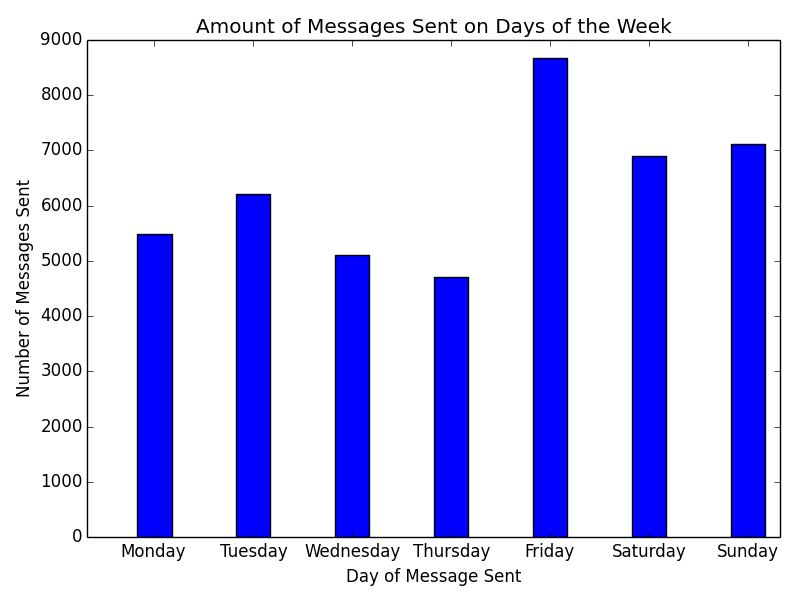
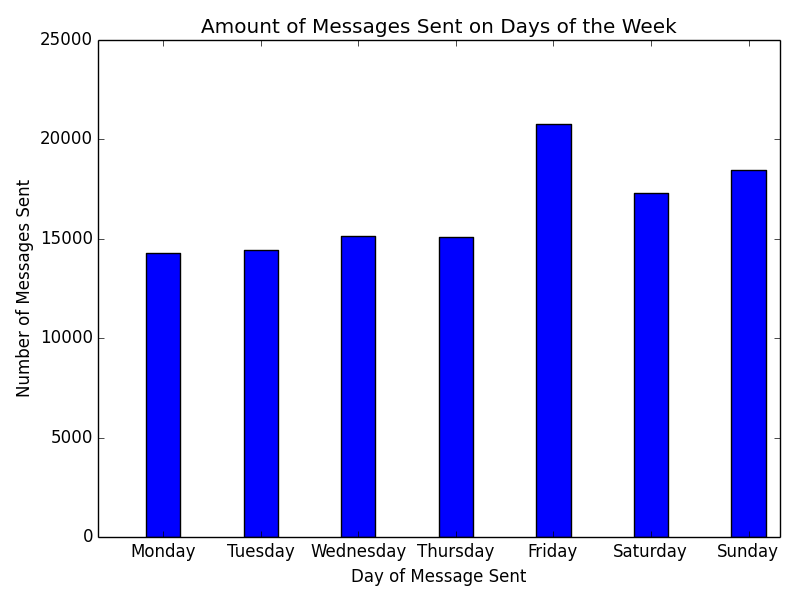
Fixed bugs caused by cleanup and before cleanup, updated images with larger data.

diff --git a/fb_analyse.py b/fb_analyse.py
@@ -48,15 +48,10 @@ for i in range(len(time_names)):
 
 ### Setup and Activate Parser/Data Gatherer ###
 
-# Parse Data while adding to data arrays.
+# Parse Data while adding to data arrays with regex.
 class MessagesParser(HTMLParser):
 	def handle_data(self, data):
-		match = re.search(
-			"""(Saturday|Sunday|Monday|Tuesday|
-				Wednesday|Thursday|Friday)(,) [0-9]{2} 
-				(Janurary|Feburary|March|April|May|June|July|Augest|
-				September|October|November|December) 
-				[0-9]{4} at [0-9]{2}:[0-9]{2}", data) """
+		match = re.search("(Saturday|Sunday|Monday|Tuesday|Wednesday|Thursday|Friday)(,) [0-9]{2} (January|February|March|April|May|June|July|August|September|October|November|December) [0-9]{4} at [0-9]{2}:[0-9]{2}", data)
 		if match:
 			for i in range(12):
 				if re.search(month_names[i], match.group(0)):
@@ -79,36 +74,41 @@ for i in range(len(messages)):
 ### Create Graphs ###
 
 # Bar Graph creater function.
-def messages(
-		n_groups, bar_width, x_lim, items, names, 
+def messages(n_groups, bar_width, x_lim, items, names, 
 		x_label, y_label, title, file_name):
+
+	# Plot Graph.
 	fig, ax = pyplot.subplots()
 	index = numpy.arange(n_groups)
 	rects1 = pyplot.bar(index, items, bar_width)
+
+	
+	# Add texts and lables.
 	pyplot.xlabel(x_label)
 	pyplot.ylabel(y_label)
 	pyplot.title(title)
+
+	# Shape Graph.
 	pyplot.xticks(index + bar_width/2, names)
 	pyplot.xlim([min(index) - x_lim, max(index) + x_lim])
-	pyplot.legend()
 	pyplot.tight_layout()
+
+	# Export Graph.
 	pyplot.savefig(file_name)
 
 
 # Create Bar Graph for messenger month frequency.
-messages(
-	12, 0.3, 1, month, month_names, "Month of Message Sent", 
+messages(12, 0.3, 1, month, month_names, "Month of Message Sent", 
 	"Number of Messages Sent", "Amount of Messages Sent on that Month", 
 	"messages_month.png")
 
 # Create Bar Graph for messenger dag frequency.
-messages(
-	7, 0.35, 0.5, day, day_names, "Day of Message Sent", 
+messages(7, 0.35, 0.5, day, day_names, "Day of Message Sent", 
 	"Number of Messages Sent", "Amount of Messages Sent on Days of the Week", 
 	"messages_days.png")
 
 # Create Bar Graph for messenger time frequency.
-messages(
-	24, 0.20, 0.5, time, time_names, "Time of message sent", 
+messages(24, 0.20, 0.5, time, time_names, "Time of message sent", 
 	"Number of messages sent", "Amount of Messages Sent on Time of the Day", 
 	"messages_times.png")
+
